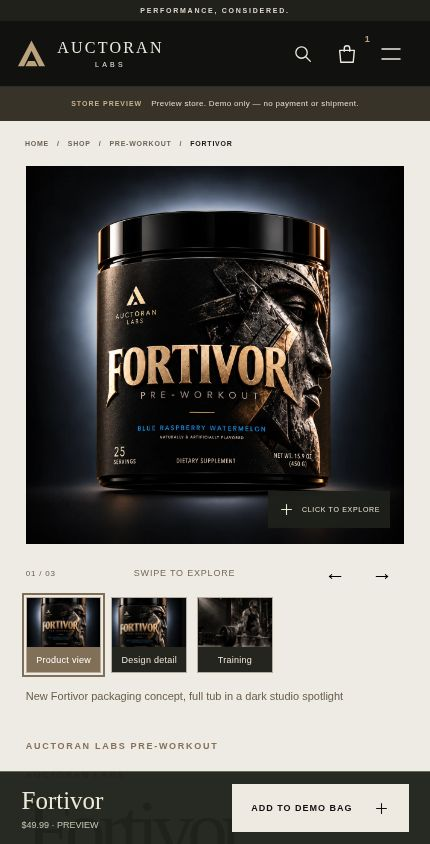
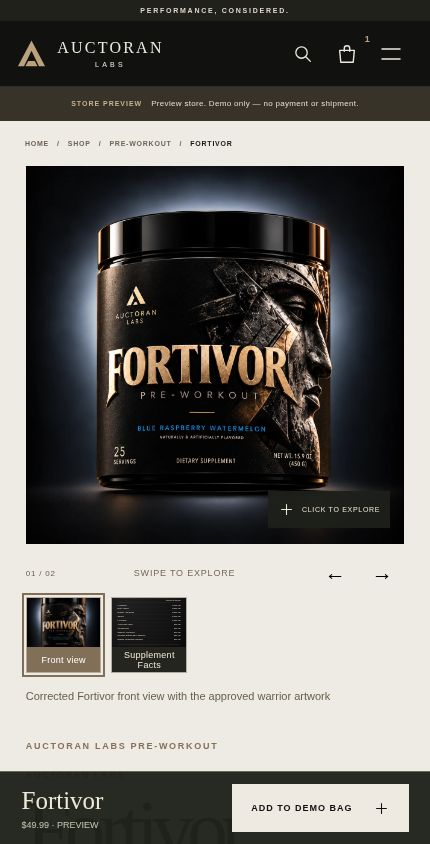
Add supplied Fortivor facts and simplify gallery to two views

Changed region(s): [[0.0605, 0.7085, 0.786, 0.8318]]

diff --git a/public/src/app.js b/public/src/app.js
@@ -47,7 +47,7 @@ function removeCart(id){cart=cart.filter(i=>i.id!==id);saveCart();refreshShell()
 function galleryPhoto(photo,{hero=false}={}){
   const studio = /fortivor-studio-(front|detail)\.webp$/.test(photo.src);
   const responsive = studio ? `srcset="${photo.src.replace('.webp','-mobile.webp')} 768w, ${photo.src} 1254w" sizes="(max-width:700px) 90vw, 50vw"` : !Number.isInteger(photo.panel) && /\/(fortivor|fortivor-detail|deadlift-editorial)\.(jpg|webp)$/.test(photo.src) ? `srcset="${photo.src.replace(/\.(jpg|webp)$/, '-mobile.webp')} 760w, ${photo.src} 1280w" sizes="(max-width:600px) 88vw, 50vw"` : '';
-  const img = `<img ${responsive} width="${studio?1254:1280}" height="${studio?1254:1166}" decoding="async" src="${esc(photo.src)}" alt="${esc(photo.alt)}" ${hero?'fetchpriority="high"':'loading="lazy"'} class="real-product-img"/>`;
+  const img = `<img ${responsive} width="${photo.width||(studio?1254:1280)}" height="${photo.height||(studio?1254:1166)}" decoding="async" src="${esc(photo.src)}" alt="${esc(photo.alt)}" ${hero?'fetchpriority="high"':'loading="lazy"'} class="real-product-img"/>`;
   // Generated triptychs contain three square photographs; show one panel at a time.
   if(photo.focus==='detail') return `<span class="studio-detail-crop">${img}</span>`;
   return Number.isInteger(photo.panel) ? `<span class="product-photo-panel photo-panel-${photo.panel}">${img}</span>` : img;
@@ -79,7 +79,7 @@ function home(){
  </section>
  <nav class="discovery-rail" aria-label="Shop by category"><span>FIND YOUR<br/><em>ESSENTIALS.</em></span>${CATEGORIES.map(([key,label])=>`<a href="/shop?category=${key}" data-route>${label} ${icon('northeast',13)}</a>`).join('')}<a href="/shop" data-route class="rail-all">Shop All ${icon('arrow',15)}</a></nav>
  <section class="v4-intro"><p class="kicker">AUCTORAN LABS</p><div><h2>INTENTION IN<br/><em>EVERY DETAIL.</em></h2><p>Performance supplements. A considered formula. A disciplined approach to what comes before the first rep.</p></div></section>
- <section class="v4-flagship"><a href="/product/fortivor-pre-workout" data-route class="v4-product-art" aria-label="Explore Fortivor packaging details">${galleryPhoto(productGallery(fort)[1])}</a><div class="v4-product-copy"><p class="kicker">MEET YOUR PRE-WORKOUT</p><h2>FORTIVOR<em>.</em></h2><p class="flagship-classification">PRE-WORKOUT / ${esc(fort.flavor)}</p><p>A clear place to start. Explore the ingredients, read the label information, and build a routine around your training.</p><div class="flagship-numbers"><div><strong>${fort.servings}</strong><small>SERVINGS SHOWN</small></div><div><strong>450<span>g</span></strong><small>PACKAGING SHOWN</small></div><div><strong>AL</strong><small>AUCTORAN LABS</small></div></div><p class="label-disclosure">Contains caffeine. Read ingredients and warnings before use. Final product details are awaiting approval.</p><a href="/product/fortivor-pre-workout" data-route class="btn dark-btn">DISCOVER FORTIVOR ${icon('arrow')}</a><span class="flagship-price">${money(fort.priceCents)} <small>${priceLabel(fort)}</small></span></div></section>
+ <section class="v4-flagship"><a href="/product/fortivor-pre-workout" data-route class="v4-product-art" aria-label="Explore Fortivor packaging details">${galleryPhoto({src:fort.image,label:'Design detail',alt:'Fortivor gold lettering and the corrected warrior artwork',focus:'detail'})}</a><div class="v4-product-copy"><p class="kicker">MEET YOUR PRE-WORKOUT</p><h2>FORTIVOR<em>.</em></h2><p class="flagship-classification">PRE-WORKOUT / ${esc(fort.flavor)}</p><p>A clear place to start. Explore the ingredients, read the label information, and build a routine around your training.</p><div class="flagship-numbers"><div><strong>${fort.caffeineMg}</strong><small>CAFFEINE / MG</small></div><div><strong>450<span>g</span></strong><small>PACKAGING SHOWN</small></div><div><strong>AL</strong><small>AUCTORAN LABS</small></div></div><p class="label-disclosure">Approximately ${fort.caffeineMg} mg total caffeine per declared serving. Read all warnings. Serving size and directions are awaiting confirmation.</p><a href="/product/fortivor-pre-workout" data-route class="btn dark-btn">DISCOVER FORTIVOR ${icon('arrow')}</a><span class="flagship-price">${money(fort.priceCents)} <small>${priceLabel(fort)}</small></span></div></section>
  <section class="stack-invitation"><div><p class="kicker light">A MORE CONSIDERED ROUTINE</p><h2>YOUR GOAL.<br/><em>YOUR STACK.</em></h2></div><div><p>Start with how you train. Explore a focused selection that respects your preferences, your budget, and the available catalog.</p><a href="/build-your-stack" data-route class="btn ivory">BUILD YOUR STACK ${icon('arrow')}</a><small>Three simple steps. Transparent matching. No medical advice.</small></div><span class="stack-invitation-index">BUILD YOUR ROUTINE</span></section>
  <section class="v4-editorial"><div class="editorial-heading"><p class="kicker">PREPARATION. CONSISTENCY. TRAINING.</p><h2>NOTHING LASTING<br/>IS BUILT <em>BY CHANCE.</em></h2></div><figure class="editorial-training"><img src="/assets/deadlift-editorial.webp" loading="lazy" width="1672" height="941" alt="Auctoran athlete training with a loaded barbell"/><figcaption>THE WORK THAT COUNTS</figcaption></figure><figure class="editorial-classical"><img src="/assets/ritual-sculpture.webp" srcset="/assets/ritual-sculpture-mobile.webp 720w, /assets/ritual-sculpture.webp 1122w" sizes="(max-width:700px) 43vw, 28vw" width="1122" height="1402" loading="lazy" alt="Classical sculpture beside a lifter resting between sets in the Auctoran campaign"/><figcaption>CONSISTENCY, EVERY DAY</figcaption></figure><div class="editorial-note"><p>Classical strength is a reference. Consistency is a practice. We make supplements for people who take preparation as seriously as the session.</p><a href="/about" data-route class="underlined-link">ABOUT AUCTORAN LABS ${icon('northeast',16)}</a></div></section>
  <section class="collection-signpost"><p class="kicker">THE COLLECTION</p><h2>SUPPLEMENTS FOR<br/><em>YOUR ROUTINE.</em></h2><p>Discover Fortivor and explore our categories.${preview()?' Curated brand listings are clearly labeled samples while supplier inventory is confirmed.':''}</p><div><a href="/shop?brand=house" data-route class="btn dark-btn">SHOP ORIGINALS ${icon('arrow')}</a><a href="/shop?brand=partner" data-route class="underlined-link">EXPLORE CURATED BRANDS ${icon('northeast',16)}</a></div></section>
@@ -98,19 +98,28 @@ function shop(){
  ${list.length?`<div class="shop-grid">${list.map((p,i)=>productCard(p,i)).join('')}</div>`:`<div class="empty-shop"><p class="kicker">A CONSIDERED COLLECTION</p><h2>NOT IN THE EDIT. <em>YET.</em></h2><p>${stimulant!=='any'?'No products with verified caffeine data match these filters.':'No available listings match your selection.'} Try another category or clear your filters.</p><a href="/shop" data-route class="btn dark-btn">SEE ALL PRODUCTS ${icon('arrow')}</a></div>`}</div></main>`;
 }
 const ingredientNotes = {
- 'L-Citrulline':'An amino acid involved in the body’s production of nitric oxide. Included here at the amount stated on the supplied concept label. Individual responses vary.',
- 'Beta-Alanine':'An amino acid used to form carnosine. It can cause a temporary tingling sensation (paresthesia). This does not establish effectiveness or suitability for you.',
- 'Caffeine':'A stimulant. The supplied label states 300 mg per serving. Consider caffeine from every source and avoid combining stimulant products. Sensitivity varies.',
- 'Alpha-GPC':'A choline-containing compound. This page reports the stated amount without promising a cognitive or exercise outcome.',
- 'L-Theanine':'An amino acid also found in tea. Its inclusion does not remove caffeine’s risks or make the formula suitable for everyone.'
+ 'L-Citrulline':'An amino acid involved in nitric oxide production. Individual responses vary; inclusion does not guarantee an exercise outcome.',
+ 'Beta-Alanine':'An amino acid used to form carnosine. It can cause a temporary tingling sensation (paresthesia).',
+ 'Betaine Anhydrous':'Also known as trimethylglycine. The amount shown is the declared ingredient quantity, not a promise of improved performance.',
+ 'Taurine':'An amino sulfonic acid found naturally in the body and in foods. Read the complete formula and directions before use.',
+ 'L-Tyrosine':'An amino acid involved in the production of certain neurotransmitters. No specific focus or cognitive outcome is guaranteed.',
+ 'Alpha-GPC (50%)':'A choline-containing ingredient preparation. The label lists 300 mg of the 50% preparation; this is not a claim of 300 mg pure Alpha-GPC.',
+ 'Theobromine':'A methylxanthine also found in cocoa, with stimulant properties. Consider it alongside the product’s caffeine and other stimulant sources.',
+ 'Caffeine Anhydrous':'The formula lists 300 mg caffeine anhydrous. Guarana contributes approximately another 55 mg, giving about 355 mg total caffeine per declared serving.',
+ 'Guarana Extract (22% Caffeine)':'250 mg of extract at 22% caffeine supplies approximately 55 mg caffeine. This is included in the approximately 355 mg total.',
+ 'Sodium (as Sodium Chloride)':'An electrolyte listed as sodium supplied from sodium chloride. The displayed amount follows the supplied formula.'
 };
+function supplementFacts(p){
+ if(!p.factsVerified&&!p.labelVerified)return '<p>Supplement Facts have not been supplied for this product.</p>';
+ return `<div class="facts-accessible"><p><strong>Serving size:</strong> ${esc(p.servingSize)}<br/><strong>Servings per container:</strong> ${p.servings}${p.servingsVerified===false?' (supplied label; awaiting confirmation)':''}</p><table><caption>Declared amounts per serving</caption><thead><tr><th scope="col">Ingredient</th><th scope="col">Amount</th></tr></thead><tbody>${p.formula.map(f=>`<tr><th scope="row">${esc(f.name)}</th><td>${esc(f.amount)}</td></tr>`).join('')}</tbody></table><p><strong>Other ingredients:</strong> ${esc((p.otherIngredients||[]).join(', '))}.</p><p class="facts-caffeine">${esc(p.caffeineNote)}</p>${p.supplementFactsImage?`<a href="${esc(p.supplementFactsImage)}" target="_blank" rel="noopener">Open the full Supplement Facts panel ↗</a>`:''}</div>`;
+}
 function detailGallery(p){
  const photos=productGallery(p),index=Math.min(view.galleryIndex||0,photos.length-1);
- return `<div class="detail-main-image"><button type="button" class="detail-gallery-image" data-action="zoomGallery" data-id="${esc(p.id)}" aria-label="Enlarge ${esc(photos[index].label)}">${galleryPhoto(photos[index],{hero:true})}<span class="zoom-hint">${icon('plus',17)} CLICK TO EXPLORE</span></button>${p.isSample?'<span class="detail-demo-tag">SAMPLE PRODUCT CONCEPT</span>':''}</div><div class="gallery-tools"><span>${String(index+1).padStart(2,'0')} / ${String(photos.length).padStart(2,'0')}</span><span>SWIPE TO EXPLORE</span><div><button type="button" aria-label="Previous image" data-action="galleryPrevious" data-id="${esc(p.id)}">←</button><button type="button" aria-label="Next image" data-action="galleryNext" data-id="${esc(p.id)}">→</button></div></div><div class="detail-image-row" role="group" aria-label="${esc(p.name)} gallery">${photos.map((photo,i)=>`<button type="button" data-action="showDetailImage" data-id="${esc(p.id)}" data-photo="${i}" aria-pressed="${i===index}" aria-label="View ${esc(photo.label)}">${galleryPhoto(photo)}<span class="gallery-photo-label">${esc(photo.label)}</span></button>`).join('')}</div><p class="gallery-caption" aria-live="polite">${esc(photos[index].alt)}</p>`;
+ return `<div class="detail-main-image ${photos[index].kind==='label'?'flat-label-view':''}"><button type="button" class="detail-gallery-image" data-action="zoomGallery" data-id="${esc(p.id)}" aria-label="Enlarge ${esc(photos[index].label)}">${galleryPhoto(photos[index],{hero:true})}<span class="zoom-hint">${icon('plus',17)} CLICK TO EXPLORE</span></button>${p.isSample?'<span class="detail-demo-tag">SAMPLE PRODUCT CONCEPT</span>':''}</div><div class="gallery-tools"><span>${String(index+1).padStart(2,'0')} / ${String(photos.length).padStart(2,'0')}</span><span>SWIPE TO EXPLORE</span><div><button type="button" aria-label="Previous image" data-action="galleryPrevious" data-id="${esc(p.id)}">←</button><button type="button" aria-label="Next image" data-action="galleryNext" data-id="${esc(p.id)}">→</button></div></div><div class="detail-image-row" role="group" aria-label="${esc(p.name)} gallery">${photos.map((photo,i)=>`<button type="button" data-action="showDetailImage" data-id="${esc(p.id)}" data-photo="${i}" aria-pressed="${i===index}" aria-label="View ${esc(photo.label)}">${galleryPhoto(photo)}<span class="gallery-photo-label">${esc(photo.label)}</span></button>`).join('')}</div><p class="gallery-caption" aria-live="polite">${esc(photos[index].alt)}</p>`;
 }
 function detail(slug){const p=products.find(x=>x.slug===slug);if(!p)return notFound();
- return `<main class="detail-page"><nav class="breadcrumbs" aria-label="Breadcrumbs"><a href="/" data-route>HOME</a><span>/</span><a href="/shop" data-route>SHOP</a><span>/</span><a href="/shop?category=${p.categoryKey}" data-route>${esc(p.category.toUpperCase())}</a><span>/</span><strong>${esc(p.name.toUpperCase())}</strong></nav><div class="detail-layout"><section class="detail-media" aria-label="Product gallery">${detailGallery(p)}</section><section class="detail-info"><p class="kicker">${p.isOwn?'AUCTORAN LABS PRE-WORKOUT':'CURATED BRANDS / SAMPLE'}</p><p class="detail-brand">${esc(p.brand)}</p><h1>${esc(p.name)}<span class="detail-period">.</span></h1><p class="detail-type">${esc(p.category)}${p.servings?' / '+p.servings+' SERVINGS':''}</p><div class="detail-separator"></div><div class="detail-price"><strong>${money(p.priceCents)}</strong><span>${p.priceConfirmed?'USD · shipping & tax at checkout':'Preview price · final approval pending'}</span></div><p class="detail-description">${esc(p.description)}</p><p class="stock-status"><span></span>${stockLabel(p)}</p><div class="variant-block"><label for="flavor-choice">${p.isOwn?(p.packagingDetailsConfirmed?'FLAVOR':'SHOWN FLAVOR'):'FORMAT'}</label><select id="flavor-choice" aria-label="${p.isOwn?'Available flavor':'Product format'}"><option>${esc(p.flavor)}</option></select></div><div class="variant-block"><span class="variant-label">CONTAINER</span><span class="size-text">${esc(p.size)}</span></div><div class="purchase-controls" id="primary-purchase"><div class="quantity-control"><button type="button" aria-label="Decrease quantity" data-action="detailMinus">${icon('minus',16)}</button><output aria-live="polite">${view.detailQty}</output><button type="button" aria-label="Increase quantity" data-action="detailPlus">${icon('plus',16)}</button></div><button class="btn dark-btn add-detail" data-action="addDetail" data-id="${esc(p.id)}" ${canBuy(p)?'':'disabled'}>${canBuy(p)?`${p.demoAvailable?'ADD TO DEMO BAG':'ADD TO BAG'} — ${money(p.priceCents*view.detailQty)} ${icon('arrow',20)}`:'NOT AVAILABLE YET'}</button></div><p class="purchase-note">${p.demoAvailable?(config.mode==='stripe-test'?'Stripe test purchase flow. No real payment.':'Preview purchase flow. No payment or real order in demo mode.'):config.mode==='stripe-test'?'Stripe test checkout. No real payment.':'Secure guest checkout by Stripe.'}</p><div class="purchase-service"><a href="/info/shipping" data-route>US SHIPPING ${icon('northeast',13)}</a><a href="/info/returns" data-route>RETURNS & CARE ${icon('northeast',13)}</a></div><p class="shipping-detail">${config.preview?'Shipping rates and processing terms will be confirmed before launch.':`Dispatch within ${esc(config.store.processingDays)}. ${config.shippingCents===0?'Complimentary US shipping.':config.shippingConfigured?'US shipping from '+money(config.shippingCents)+'.':'Shipping at checkout.'}`}</p>${p.isOwn?'<nav class="product-jumps" aria-label="Product information"><a href="#formula">The formula ↓</a><a href="#supplement-information">Label & use ↓</a><a href="#product-faq">FAQs ↓</a></nav>':''}<div class="accordion-list" id="supplement-information"><details><summary>SUPPLEMENT FACTS ${icon('plus',16)}</summary><p>${p.labelVerified?esc(p.supplementFactsText||'Read the Supplement Facts panel on your container.'):'Final Supplement Facts are being confirmed. The amounts below are from the earlier concept label and are not approved dosing information.'}</p>${p.labelVerified&&p.supplementFactsImage?`<a href="${esc(p.supplementFactsImage)}">View approved Supplement Facts</a>`:''}</details><details><summary>SUGGESTED USE ${icon('plus',16)}</summary><p>${p.labelVerified&&p.suggestedUse?esc(p.suggestedUse):'Approved directions are pending. Do not use concept artwork as dosing instructions. Follow the final label on your physical container once available.'}</p></details><details><summary>CAFFEINE & SAFETY ${icon('plus',16)}</summary><p>${esc(p.warning||'Verified ingredients, allergens and safety information have not been supplied. This is a sample listing, not an offer for sale.')}</p>${p.isOwn?`<p class="fda-note">${FDA}</p>`:''}</details><details><summary>SHIPPING & RETURNS ${icon('plus',16)}</summary><p>${config.preview?'Policy text is awaiting operational approval.':'US shipping and returns are subject to the published store policies.'} See <a href="/info/shipping" data-route>shipping details</a> and <a href="/info/returns" data-route>returns policy</a>. Shipping and tax are shown before payment.</p></details></div></section></div>
- ${p.isOwn?`<section class="pdp-formula" id="formula"><div class="pdp-formula-intro"><p class="kicker">FORTIVOR / FORMULA TRANSPARENCY</p><h2>KNOW<br/><em>WHAT’S IN IT.</em></h2><p>Explore the ingredients from the earlier concept while the updated formula is confirmed.</p><p class="formula-verification">${p.labelVerified?'Amounts per serving from the approved product label.':'The new packaging is shown above. The ingredient amounts below are from the earlier concept and are awaiting confirmation against the updated label.'}</p><p class="pdp-caution"><strong>CAFFEINE INFORMATION</strong><br/>For adults 18+. Avoid other caffeine and stimulant sources. Not for pregnancy or nursing. Read all warnings and approved directions before use.</p></div><div class="interactive-formula">${p.formula.map((f,i)=>`<details ${i===0?'open':''}><summary><span>${String(i+1).padStart(2,'0')}</span><b>${esc(f.name)}</b><strong>${esc(f.amount)}</strong>${icon('plus',16)}</summary><p>${esc(ingredientNotes[f.name]||'See the approved label for information.')}</p></details>`).join('')}<p class="formula-fine">${esc(p.flavor.toUpperCase())} · ${p.servings} SERVINGS SHOWN<br/>Final label confirmation pending. Outcomes are not guaranteed.</p></div></section><section class="pdp-faq" id="product-faq"><p class="kicker">BEFORE YOUR NEXT SESSION</p><h2>GOOD <em>QUESTIONS.</em></h2>${[['What flavor and serving count are shown?',`${p.flavor}, ${p.servings} servings in the new packaging concept. Final availability and formula details will be confirmed before sales open.`],['Can I combine Fortivor with other stimulants?','The updated label must confirm total caffeine from all sources. The earlier concept listed 300 mg per serving. Avoid combining with other caffeine or stimulant products. Consult a qualified healthcare professional about suitability, especially if you take medication or have a medical condition.'],['Where are the customer reviews?','Customer reviews will be available after launch.'],['When will my order ship?',config.preview?'This storefront is a demonstration. No real order is placed or shipped. Shipping rates, stock and operational terms must be confirmed before launch.':`Orders are processed within ${config.store.processingDays}. See the shipping and returns policies for details.`]].map(([q,a])=>`<details><summary>${q} ${icon('plus',19)}</summary><p>${esc(a)}</p></details>`).join('')}</section>`:''}
+ return `<main class="detail-page"><nav class="breadcrumbs" aria-label="Breadcrumbs"><a href="/" data-route>HOME</a><span>/</span><a href="/shop" data-route>SHOP</a><span>/</span><a href="/shop?category=${p.categoryKey}" data-route>${esc(p.category.toUpperCase())}</a><span>/</span><strong>${esc(p.name.toUpperCase())}</strong></nav><div class="detail-layout"><section class="detail-media" aria-label="Product gallery">${detailGallery(p)}</section><section class="detail-info"><p class="kicker">${p.isOwn?'AUCTORAN LABS PRE-WORKOUT':'CURATED BRANDS / SAMPLE'}</p><p class="detail-brand">${esc(p.brand)}</p><h1>${esc(p.name)}<span class="detail-period">.</span></h1><p class="detail-type">${esc(p.category)}${p.servings&&p.servingSizeVerified!==false?' / '+p.servings+' SERVINGS':p.servingSizeVerified===false?' / SERVING SIZE PENDING':''}</p><div class="detail-separator"></div><div class="detail-price"><strong>${money(p.priceCents)}</strong><span>${p.priceConfirmed?'USD · shipping & tax at checkout':'Preview price · final approval pending'}</span></div><p class="detail-description">${esc(p.description)}</p><p class="stock-status"><span></span>${stockLabel(p)}</p><div class="variant-block"><label for="flavor-choice">${p.isOwn?(p.packagingDetailsConfirmed?'FLAVOR':'SHOWN FLAVOR'):'FORMAT'}</label><select id="flavor-choice" aria-label="${p.isOwn?'Available flavor':'Product format'}"><option>${esc(p.flavor)}</option></select></div><div class="variant-block"><span class="variant-label">CONTAINER</span><span class="size-text">${esc(p.size)}</span></div><div class="purchase-controls" id="primary-purchase"><div class="quantity-control"><button type="button" aria-label="Decrease quantity" data-action="detailMinus">${icon('minus',16)}</button><output aria-live="polite">${view.detailQty}</output><button type="button" aria-label="Increase quantity" data-action="detailPlus">${icon('plus',16)}</button></div><button class="btn dark-btn add-detail" data-action="addDetail" data-id="${esc(p.id)}" ${canBuy(p)?'':'disabled'}>${canBuy(p)?`${p.demoAvailable?'ADD TO DEMO BAG':'ADD TO BAG'} — ${money(p.priceCents*view.detailQty)} ${icon('arrow',20)}`:'NOT AVAILABLE YET'}</button></div><p class="purchase-note">${p.demoAvailable?(config.mode==='stripe-test'?'Stripe test purchase flow. No real payment.':'Preview purchase flow. No payment or real order in demo mode.'):config.mode==='stripe-test'?'Stripe test checkout. No real payment.':'Secure guest checkout by Stripe.'}</p><div class="purchase-service"><a href="/info/shipping" data-route>US SHIPPING ${icon('northeast',13)}</a><a href="/info/returns" data-route>RETURNS & CARE ${icon('northeast',13)}</a></div><p class="shipping-detail">${config.preview?'Shipping rates and processing terms will be confirmed before launch.':`Dispatch within ${esc(config.store.processingDays)}. ${config.shippingCents===0?'Complimentary US shipping.':config.shippingConfigured?'US shipping from '+money(config.shippingCents)+'.':'Shipping at checkout.'}`}</p>${p.isOwn?'<nav class="product-jumps" aria-label="Product information"><a href="#formula">The formula ↓</a><a href="#supplement-information">Label & use ↓</a><a href="#product-faq">FAQs ↓</a></nav>':''}<div class="accordion-list" id="supplement-information"><details><summary>SUPPLEMENT FACTS ${icon('plus',16)}</summary>${supplementFacts(p)}</details><details><summary>SUGGESTED USE ${icon('plus',16)}</summary><p>${p.directionsVerified&&p.suggestedUse?esc(p.suggestedUse):'Approved usage directions have not been supplied. Do not use the serving-size line or this preview as dosing instructions. Follow the final approved directions before use.'}</p></details><details><summary>CAFFEINE & SAFETY ${icon('plus',16)}</summary><p>${esc(p.warning||'Verified ingredients, allergens and safety information have not been supplied. This is a sample listing, not an offer for sale.')}</p>${p.isOwn?`<p class="fda-note">${FDA}</p>`:''}</details><details><summary>SHIPPING & RETURNS ${icon('plus',16)}</summary><p>${config.preview?'Policy text is awaiting operational approval.':'US shipping and returns are subject to the published store policies.'} See <a href="/info/shipping" data-route>shipping details</a> and <a href="/info/returns" data-route>returns policy</a>. Shipping and tax are shown before payment.</p></details></div></section></div>
+ ${p.isOwn?`<section class="pdp-formula" id="formula"><div class="pdp-formula-intro"><p class="kicker">FORTIVOR / FORMULA TRANSPARENCY</p><h2>KNOW<br/><em>WHAT’S IN IT.</em></h2><p>Explore the full formula supplied by Auctoran Labs. Select an ingredient to learn more.</p><p class="formula-verification">${p.factsVerified?'Ingredient amounts are confirmed from the supplied product information. Serving size and directions are still awaiting confirmation.':'Ingredient details are awaiting confirmation.'}</p><p class="pdp-caution"><strong>CAFFEINE INFORMATION</strong><br/>Approximately ${p.caffeineMg} mg caffeine per declared serving, including caffeine from guarana. For adults 18+. Avoid other stimulants. Not for pregnancy or nursing. Read the complete warnings and approved directions before use.</p></div><div class="interactive-formula">${p.formula.map((f,i)=>`<details ${i===0?'open':''}><summary><span>${String(i+1).padStart(2,'0')}</span><b>${esc(f.name)}</b><strong>${esc(f.amount)}</strong>${icon('plus',16)}</summary><p>${esc(ingredientNotes[f.name]||'See the approved label for information.')}</p></details>`).join('')}<p class="formula-fine">${esc(p.flavor.toUpperCase())}<br/>Serving size and directions awaiting confirmation. Outcomes are not guaranteed.</p></div></section><section class="pdp-faq" id="product-faq"><p class="kicker">BEFORE YOUR NEXT SESSION</p><h2>GOOD <em>QUESTIONS.</em></h2>${[['What flavor is Fortivor?',`${p.flavor}. The supplied package shows 25 servings, but serving size and the final serving count are awaiting confirmation.`],['Can I combine Fortivor with other stimulants?','Fortivor contains approximately 355 mg total caffeine per declared serving: 300 mg caffeine anhydrous plus approximately 55 mg from guarana. It also contains theobromine. Avoid combining it with other caffeine or stimulant products. Consult a qualified healthcare professional about suitability, especially if you take medication or have a medical condition.'],['Where are the customer reviews?','Customer reviews will be available after launch.'],['When will my order ship?',config.preview?'This storefront is a demonstration. No real order is placed or shipped. Shipping rates, stock and operational terms must be confirmed before launch.':`Orders are processed within ${config.store.processingDays}. See the shipping and returns policies for details.`]].map(([q,a])=>`<details><summary>${q} ${icon('plus',19)}</summary><p>${esc(a)}</p></details>`).join('')}</section>`:''}
  <div class="detail-after"><p class="kicker">A CONSIDERED ROUTINE</p><h2>BUILD YOUR <em>FOUNDATION.</em></h2><a href="/build-your-stack" data-route class="btn dark-btn">EXPLORE THE STACK BUILDER ${icon('arrow')}</a></div>
  <div class="mobile-purchase" aria-label="Quick product purchase" hidden><div><strong>${esc(p.name)}</strong><span>${money(p.priceCents*view.detailQty)}${p.demoAvailable?' · PREVIEW':''}</span></div><button class="btn ivory" data-action="addDetail" data-id="${esc(p.id)}" ${canBuy(p)?'':'disabled'}>${p.demoAvailable?'ADD TO DEMO BAG':'ADD TO BAG'} ${icon('plus',17)}</button></div>
  <dialog id="gallery-zoom" class="gallery-zoom" aria-label="Enlarged product gallery"><div class="zoom-toolbar"><p>${esc(p.name)} / ${esc(productGallery(p)[view.galleryIndex||0]?.label)}</p><button type="button" data-action="closeZoom" aria-label="Close enlarged image">${icon('close',24)}</button></div><div class="zoom-content"></div><p class="zoom-help">Scroll to inspect the image. Escape to close.</p></dialog></main>`;
@@ -183,7 +192,7 @@ function showPhoto(id,index){
  const p=byId(id);if(!p)return;const photos=productGallery(p);view.galleryIndex=(index+photos.length)%photos.length;
  const media=document.querySelector('.detail-media');if(media)media.innerHTML=detailGallery(p);
 }
-function showZoom(id){const p=byId(id),dialog=document.querySelector('#gallery-zoom');if(!p||!dialog)return;dialog.querySelector('.zoom-content').innerHTML=galleryPhoto(productGallery(p)[view.galleryIndex||0],{hero:true});dialog.showModal();}
+function showZoom(id){const p=byId(id),dialog=document.querySelector('#gallery-zoom');if(!p||!dialog)return;const photo=productGallery(p)[view.galleryIndex||0];dialog.querySelector('.zoom-toolbar p').textContent=`${p.name} / ${photo.label}`;dialog.querySelector('.zoom-content').innerHTML=galleryPhoto(photo,{hero:true});dialog.showModal();}
 function render(){try{renderContent();}catch(error){console.error('Store render failed',error);app.innerHTML='<main class="fatal"><h1>LET’S TRY THAT AGAIN.</h1><p>This page could not be displayed. Your bag is saved.</p><a href="/">RETURN HOME</a><button data-action="reload">RELOAD THE STORE</button></main>';}}
 function renderContent(){
  const pathname=decodeURIComponent(location.pathname);
@@ -193,7 +202,8 @@ function renderContent(){
  document.title=pathname==='/'?'Auctoran Labs — Performance Supplements':`${pathname.startsWith('/product/')?byId(pathname.split('/').pop())?.fullName||'Product':pathname==='/shop'?'Supplements':pathname==='/cart'?'Your Bag':pathname.startsWith('/info/')?(config.store.policies?.[pathname.slice(6)]?.title.replace(/\.$/,'')||'Not found'):pathname==='/contact'?'Contact':pathname==='/admin'?'Orders':pathname==='/order/success'?'Order Status':'About Us'} — Auctoran Labs`;
  const main=document.querySelector('main');if(main){main.id='main-content';main.tabIndex=-1;}
  syncModal();observePurchase();
- const description=pathname.startsWith('/product/')?'Explore Fortivor pre-workout: Sour Cherry Blitz, 30 servings, formula information, caffeine warnings and availability.':pathname==='/build-your-stack'?'Build a considered supplement selection with transparent catalog matching, stimulant preferences and your budget.':'Auctoran Labs performance supplements. Discover Fortivor and considered training essentials.';
+ const currentProduct=pathname.startsWith('/product/')?products.find(p=>p.slug===pathname.split('/').pop()):null;
+ const description=currentProduct?`Explore ${currentProduct.fullName} by ${currentProduct.brand}${currentProduct.flavor?`: ${currentProduct.flavor}`:''}. Read formula information, caffeine warnings and product availability.`:pathname==='/build-your-stack'?'Build a considered supplement selection with transparent catalog matching, stimulant preferences and your budget.':'Auctoran Labs performance supplements. Discover Fortivor and considered training essentials.';
  document.querySelector('meta[name="description"]')?.setAttribute('content',description);
  if(pathname==='/build-your-stack')document.title='Build Your Stack — Auctoran Labs';
  document.querySelector('#product-schema')?.remove();

diff --git a/public/v4.css b/public/v4.css
@@ -164,3 +164,16 @@ html{scroll-padding-top:100px}main:focus{outline:none}button,input,select,summar
 .product-image:hover .studio-detail-crop .real-product-img{transform:translate(-24%,-15%)!important}
 .zoom-content>.studio-detail-crop{min-height:100%;height:auto}
 .mobile-nav-inner>a{display:flex;justify-content:space-between;gap:20px}
+/* Flat label documents stay separate from the product rendering. */
+.detail-main-image.flat-label-view,.flat-label-view .detail-gallery-image{background:#0b0b0c}
+.flat-label-view .zoom-hint{background:#1f1d19;color:#e4d8c4}
+.facts-accessible{padding-bottom:22px;font-size:12px;line-height:1.8;color:#4c4d41}
+.facts-accessible p{margin-bottom:16px}
+.facts-accessible table{width:100%;border-collapse:collapse;margin:12px 0 18px;text-align:left}
+.facts-accessible caption{text-align:left;font-size:10px;padding-bottom:10px;font-weight:bold;letter-spacing:.03em}
+.facts-accessible th,.facts-accessible td{padding:9px 0;border-bottom:1px solid #c5bdac;font-size:11px;line-height:1.7;vertical-align:top}
+.facts-accessible thead th{border-bottom:2px solid #77715f;font-size:10px}
+.facts-accessible tbody th{font-weight:400;padding-right:16px}
+.facts-accessible td,.facts-accessible thead th:last-child{text-align:right;white-space:nowrap}
+.facts-accessible .facts-caffeine{border-left:2px solid #92805f;padding-left:12px;font-size:11px}
+.facts-accessible>a{display:inline-block;font-size:11px;min-height:35px}

diff --git a/docs/DELIVERY.md b/docs/DELIVERY.md
@@ -2,13 +2,13 @@
 
 Implemented directly in the existing repository, preserving dependency-free Node, vanilla JavaScript, existing routes, Stripe server integration, admin and Vercel/Render hosting configuration. No production deployment performed.
 
-Latest imagery and copy changes: [Fortivor product presentation](PRODUCT_PRESENTATION.md). The new packaging shows Blue Raspberry Watermelon, 25 servings and 450 g, with commercial details still awaiting approval.
+Latest imagery, formula approvals and copy changes: [Fortivor product presentation](PRODUCT_PRESENTATION.md). Blue Raspberry Watermelon is retained. The supplied ingredient quantities and 355 mg total caffeine are confirmed; serving size/count and exact usage directions remain unresolved.
 
 ## Design and commerce
 
 - Full-width monochrome campaign hero with the requested headline/copy and both shopping CTAs above the fold at the four tested widths. Seven direct category shortcuts immediately follow.
 - Shorter homepage: flagship merchandising, a functional stack-builder entry, one asymmetrical classical/training story and collection links. Retained the wordmark, supplied campaign/product artwork, restrained gold and warm ivory.
-- Fortivor: front artwork, existing label close-up and lifestyle image; functional thumbnails, swipe, native-dialog zoom, quantities, mobile purchase bar, information anchors, expandable ingredient explanations, label/use/safety/shipping sections and FAQs. Generated draft Supplement Facts imagery and invented package angles are excluded.
+- Fortivor: exactly two gallery images, the corrected front and flat black-and-gold Supplement Facts; functional thumbnails, swipe, native-dialog zoom, quantities, mobile purchase bar, information anchors, expandable ingredient explanations, accessible formula table, label/use/safety/shipping sections and FAQs. Label text is typeset from the supplied catalog. The directions image was removed at the owner's request.
 - Search and URL-backed category, brand, price, verified-caffeine and sort controls; compact mobile filtering, clear availability and empty states. Originals are distinct from sample Curated Brands.
 - Three-step stack matching with goal/category/stimulant/budget preferences, visible rules, quantities, removal, selection, individual/bulk cart actions and combined-budget validation. At most one caffeinated product; no sample brand recommendations. Unknown stimulant data is excluded.
 - Preserved cart storage key. Restored items are normalized, duplicate IDs merged and quantities capped. Demo checkout keeps the bag and never claims a real paid order. Inline checkout errors support retry.
@@ -18,7 +18,7 @@ Latest imagery and copy changes: [Fortivor product presentation](PRODUCT_PRESENT
 
 ## Validation actually run
 
-- `npm run check`: JavaScript syntax and 16 backend/matching tests passed before final UI refinements. See current final command result in the handoff.
+- `npm run check`: JavaScript syntax and all 19 backend/matching/product-facts tests passed.
 - `node scripts/browser-qa.mjs`: journeys A–E, default/no-match and stimulant-free builder behavior, explicit demo matching, cart math/restoration/removal, checkout failure/retry, cancellation, gallery thumbnails/zoom/swipe, mobile bar, keyboard focus, search/filter/sort and route refresh.
 - Chromium renders at 1440, 1024, 390 and 430px: homepage, product, catalog and stack. No horizontal overflow or broken loaded images; hero CTAs above fold. See `browser-results.json` for final results.
 - Screenshots in `screenshots/`: all four routes at all four widths, full desktop homepage and full mobile Fortivor page.
@@ -30,7 +30,7 @@ The UI, cart and deterministic matching are implemented. The supplied catalog is
 
 ## Launch blockers and configuration
 
-1. Approve Fortivor's price, formula, final Supplement Facts, suggested use, caffeine/allergen warnings and physical product photos. Update `data/products.json`: `priceConfirmed`, `labelVerified`, `supplementFactsText` or `supplementFactsImage`, `suggestedUse`, `warning`, `inventoryConfirmed`, `inventoryQuantity`, and `inStock`. Verify the five stated amounts: 8,000 mg citrulline; 3,200 mg beta-alanine; 300 mg caffeine; 200 mg alpha-GPC; 100 mg theanine. The updated packaging preview shows Blue Raspberry Watermelon / 25 servings. Confirm the final product details before sale.
+1. Approve Fortivor's price, complete final label, suggested use, caffeine/allergen warnings and physical product photos. The ten supplied ingredient amounts and approximately 355 mg total caffeine are now confirmed, but their listed mass exceeds the supplied 18 g serving. Resolve the serving size/count and obtain exact approved usage directions; see [current product facts](PRODUCT_PRESENTATION.md#current-formula-and-approvals). Update `data/products.json`: serving approval fields, `sourceLabel`, `directionsVerified`, `suggestedUse`, `warning`, `priceConfirmed`, `inventoryConfirmed`, `inventoryQuantity`, and `inStock`. Regenerate the facts image with `node scripts/build-product-labels.mjs`; set `labelVerified` only after complete approval.
 2. For matching/filtering, provide verified `caffeineMg`, `caffeineVerified`, `stimulant` and `stimulantVerified` data. A caffeine-free value alone does not prove stimulant-free. Add only authorized supplier products with real images, prices, approved labels and stock. Samples remain excluded from live catalog and Stripe.
 3. Review shipping/return/privacy/terms text in `data/store.json`. Configure the server environment using `.env.example`: `PUBLIC_BASE_URL`, `SUPPORT_EMAIL`, shipping rates, `ADMIN_TOKEN`, and Stripe secret/webhook keys. Keep secrets in host settings; never commit them. Retain `STORE_LIVE=false` until approval.
 4. Configure Stripe webhook `/api/stripe/webhook` for Checkout completion and async payment success/failure. Test real Stripe test-mode redirects, receipts, cancellation, signed webhook arrival and fulfillment gating before switching to live credentials.
@@ -43,4 +43,4 @@ Run locally with `npm start` (http://localhost:3000). Run backend/rule checks wi
 
 Modified: `data/products.json`, `lib/store.mjs`, `public/index.html`, `public/src/app.js`, `public/styles.css`, `test/store.test.mjs`, `README.md`.
 
-Created: `public/v4.css`, `public/src/matching.js`, `test/matching.test.mjs`, `scripts/browser-qa.mjs`, `docs/AUDIT.md`, `docs/DELIVERY.md`, `docs/browser-results.json`, `screenshots/`, five optimized sample-gallery WebPs and four mobile image derivatives in `public/assets/`.
+Created: `public/v4.css`, `public/src/matching.js`, `test/matching.test.mjs`, `test/product-facts.test.mjs`, `scripts/browser-qa.mjs`, `scripts/build-product-labels.mjs`, `docs/AUDIT.md`, `docs/DELIVERY.md`, `docs/PRODUCT_PRESENTATION.md`, `docs/browser-results.json`, `screenshots/`, optimized photography and mobile derivatives in `public/assets/`, and `public/assets/fortivor-supplement-facts.svg`.

diff --git a/docs/PRODUCT_PRESENTATION.md b/docs/PRODUCT_PRESENTATION.md
@@ -2,18 +2,28 @@
 
 The latest user-supplied packaging design and close-up of the warrior's face replace the previous Fortivor visual direction. A new studio concept image uses the black tub, gold typography, original-style sculpted face and shadowed eye, and a soft circular backlight inspired by the supplied product advertisement. The original collage and ad screenshot are not displayed on the site.
 
-The homepage now introduces Fortivor directly with a large, fully framed product. The product gallery, catalog, cart, mobile purchase flow and stack builder use the same image. The design-detail view enlarges this exact artwork through CSS, keeping the face consistent rather than generating another interpretation or inventing a physical package angle. Primary views use centered `object-fit: contain` and square reserved frames.
+The homepage now introduces Fortivor directly with a large, fully framed product. The product gallery, catalog, cart, mobile purchase flow and stack builder use the same image. The homepage design-detail view enlarges this exact artwork through CSS, keeping the face consistent rather than generating another interpretation or inventing a physical package angle. Primary views use centered `object-fit: contain` and square reserved frames.
 
 Removed house/release/edition numbers and replaced them with clear product, shopping and About Us labels. The gallery's image count and stack builder's step numbers remain functional navigation.
 
-The new packaging preview shows Blue Raspberry Watermelon, 25 servings and 450 g. These supersede the previous packaging presentation, but remain unconfirmed commercial details. Earlier ingredient amounts are retained with an explicit updated-label verification notice. No generated Supplement Facts, new clinical claims, verified stock, confirmed price or live flavor availability was invented. Live checkout approval requirements remain in force.
+The flavor remains **Blue Raspberry Watermelon**, as requested. The corrected front rendering is unchanged. Following the owner's final clarification, the gallery contains exactly **two views**: the corrected front and a flat black-and-gold Supplement Facts panel. There is no directions image, back-label brand panel or placeholder. Ingredient text is typeset directly from catalog data rather than image-generated, and is also available as an accessible HTML table. Thumbnails, swipe and zoom work for both views.
+
+## Current formula and approvals
+
+The owner confirmed the ingredient amounts in the supplied packaging image and subsequently supplied product copy confirming approximately **355 mg total caffeine**. The current ten-ingredient list replaces the earlier five-ingredient concept. Caffeine is 300 mg anhydrous plus approximately 55 mg from 250 mg guarana extract standardized to 22% caffeine. Alpha-GPC is listed as 300 mg of a 50% preparation. L-theanine is absent from the supplied formula. No clinical or guaranteed performance claims were copied from the marketing draft.
+
+The supplied image also shows 25 servings, 450 g and an 18 g scoop. Listed ingredient amounts total 18.65 g before flavoring, so the serving size and final container serving count remain unresolved. The owner has not provided a correction. The flat facts image faithfully reproduces the supplied serving-size line and count, stored separately in `sourceLabel`. Its gallery caption identifies the serving size as under review. The purchase panel and accessible HTML table explicitly mark serving size/count as awaiting confirmation. `factsVerified` records the ingredient source; `labelVerified` remains false.
+
+The owner explicitly asked to ignore the directions photo and retain only the front and facts. Exact usage directions have not been supplied; the Suggested Use disclosure therefore provides no dosing guidance. Before launch, enter approved text in `suggestedUse` and set `directionsVerified: true`. Resolve the serving-mass discrepancy, update `servingSize`, `servingSizeGrams`, the serving approval fields and `sourceLabel`, then run `node scripts/build-product-labels.mjs` before approving the complete label.
+
+The facts SVG is a digital packaging reference, not production packaging artwork or a regulatory label approval. Final physical packaging, price and stock remain unconfirmed; live checkout approval requirements are unchanged. The $49.99 price is still illustrative. No live inventory, partner authorization, reviews or certifications were fabricated.
 
 ## Validation
 
-- `npm run check`: all 16 backend and matching tests passed.
+- `npm run check`: all 19 backend, matching and product-facts tests passed.
 - `QA_BASE_URL=http://localhost:4174 node scripts/browser-qa.mjs`: all five shopping journeys plus gallery zoom/swipe, focus management, cart persistence/calculations, filtering, demo checkout and error recovery passed. 13 recorded checks and 16 responsive renders.
 - Homepage, Fortivor, catalog and stack were checked at 1440, 1024, 390 and 430px. No horizontal overflow, broken loaded images or browser JavaScript exceptions. Hero shopping controls remain above the fold.
-- Updated screenshots are the `studio-*.jpg` files in `screenshots/`. Previous screenshots remain as historical audit artifacts.
+- Updated screenshots are the `studio-*.jpg` files in `screenshots/`, plus `flat-facts-desktop.jpg` and `flat-facts-mobile.jpg`. Previous screenshots remain as historical audit artifacts.
 - Generated primary image optimized to approximately 156 KB desktop / 60 KB mobile WebP. Original generation files remain outside the source repository.
 
 Changes are supplied on the existing review branch; production deployment and live payment credentials were not changed.
